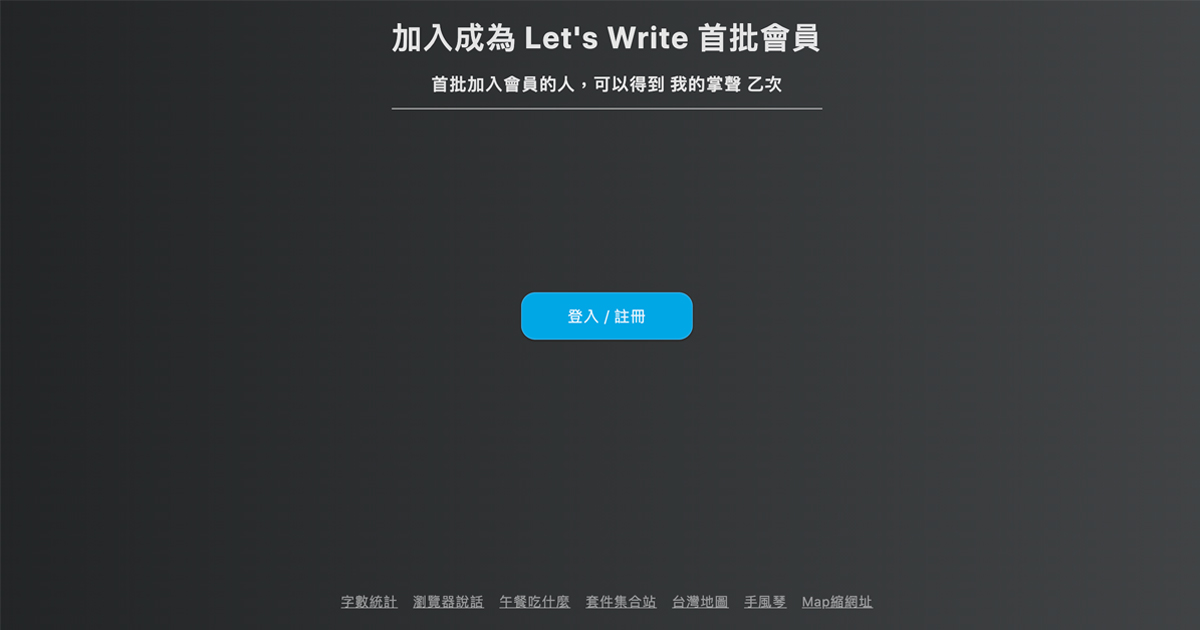
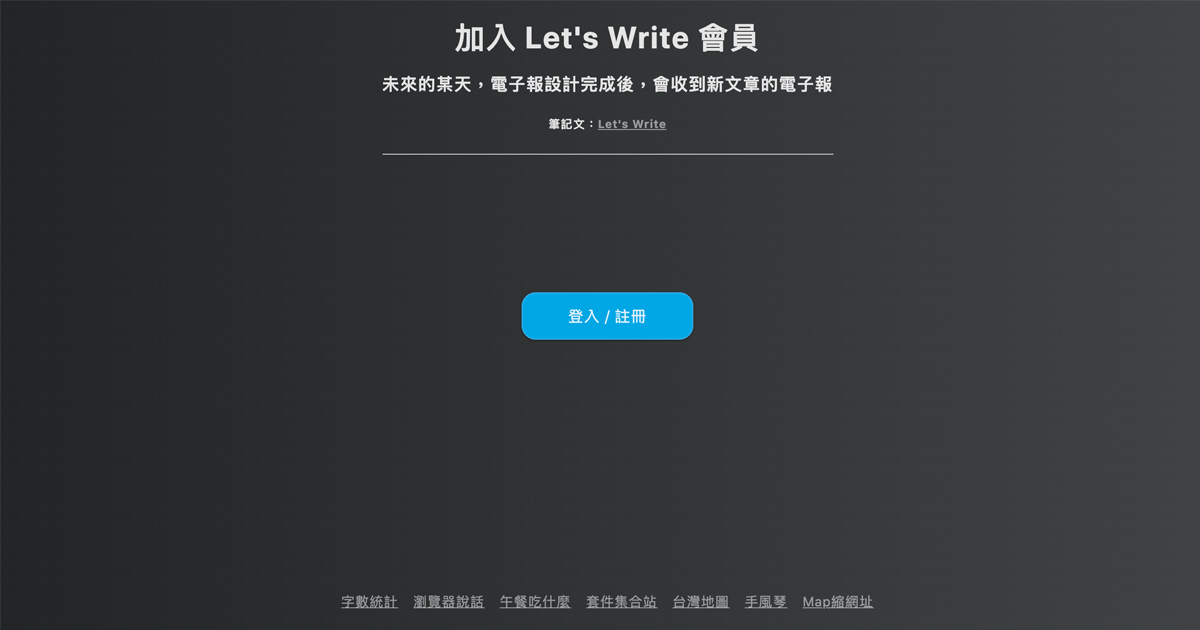
更新fb圖

diff --git a/index.html b/index.html
@@ -15,8 +15,8 @@
     <meta name="description" content="用Auth0的Universal Login功能，來進行Let's Write的會員註冊、登入"/>
     <meta property="og:description" content="用Auth0的Universal Login功能，來進行Let's Write的會員註冊、登入"/>
     <meta itemprop="description" content="用Auth0的Universal Login功能，來進行Let's Write的會員註冊、登入"/>
-    <meta itemprop="image" content="https://letswritetw.github.io/letswrite-auth0-login/fb.jpg"/>
-    <meta property="og:image" content="https://letswritetw.github.io/letswrite-auth0-login/fb.jpg"/>
+    <meta itemprop="image" content="https://letswritetw.github.io/letswrite-auth0-login/fb.jpg?v=2"/>
+    <meta property="og:image" content="https://letswritetw.github.io/letswrite-auth0-login/fb.jpg?v=2"/>
     <meta property="og:image:width" content="1200"/>
     <meta property="og:image:height" content="630"/>
     <meta property="og:image:alt" content="加入 Let's Write 會員"/>
